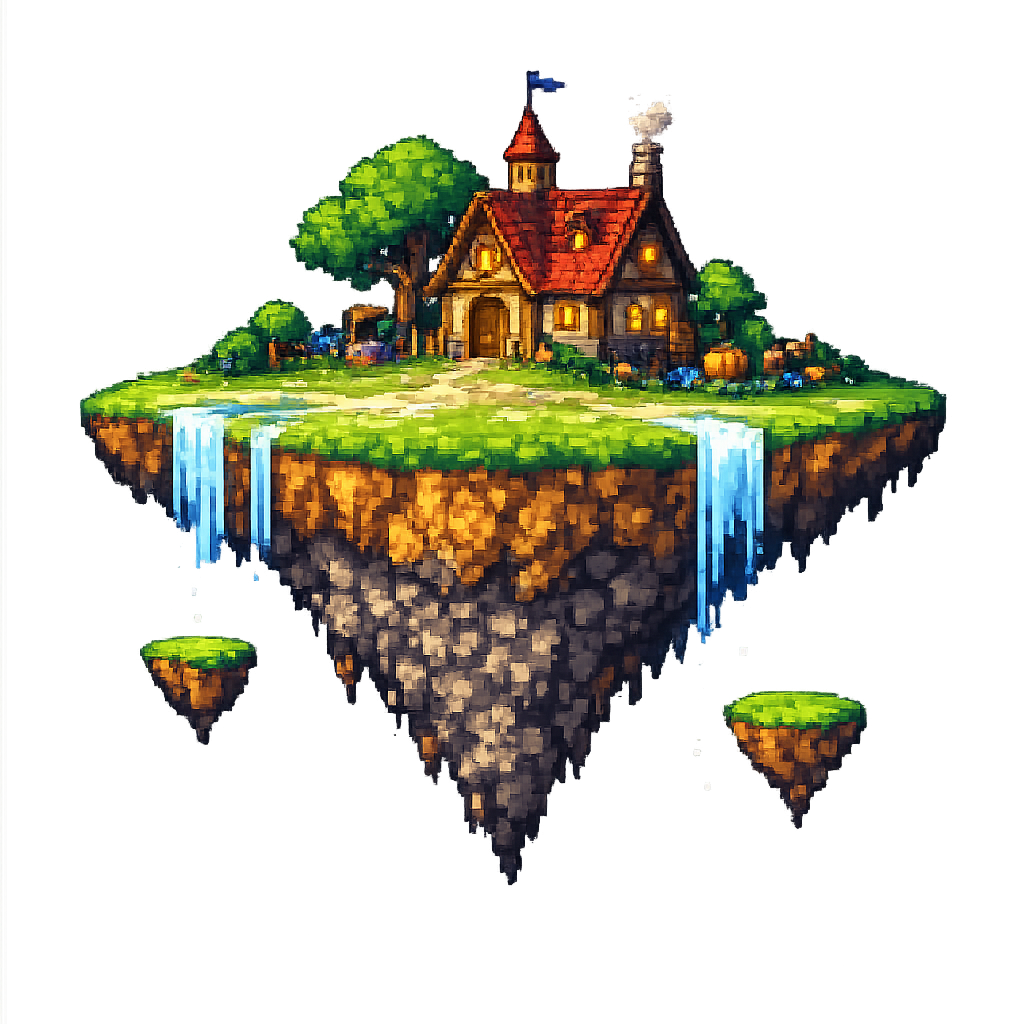
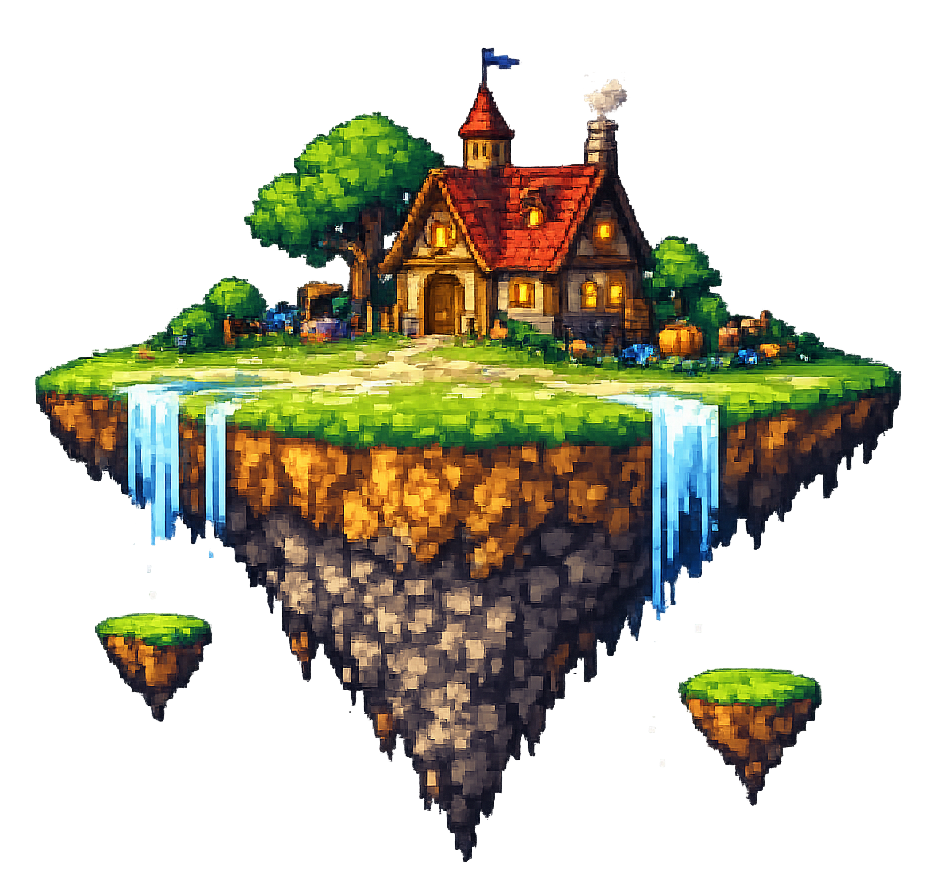
Remove parallax and adjust island visuals
Delete parallax behavior (remove script.js) and update island asset. Tweak CSS: raise island position from bottom 6% to 20%, reduce island max/min sizing (clamp changed to 200px/30vw/400px), and soften drop-shadow (smaller blur/offset). Also removed body transform-origin/will-change related to the parallax. These changes simplify visuals and improve layout/responsiveness.

diff --git a/style.css b/style.css
@@ -30,15 +30,12 @@ body {
   height: 100%;
   object-fit: cover;
   object-position: center top;
-  /* leve scale para dar profundidade durante o parallax */
-  transform-origin: center top;
-  will-change: transform;
 }
 
 /* ── Ilha flutuante ── */
 .island-wrapper {
   position: absolute;
-  bottom: 6%;
+  bottom: 20%;
   left: 50%;
   transform: translateX(-50%);
   display: flex;
@@ -50,9 +47,9 @@ body {
 
 .island {
   display: block;
-  width: clamp(280px, 38vw, 640px);
+  width: clamp(200px, 30vw, 400px);
   height: auto;
-  filter: drop-shadow(0 20px 40px rgba(0, 0, 0, 0.55));
+  filter: drop-shadow(0 12px 24px rgba(0, 0, 0, 0.55));
 }
 
 /* Sombra elíptica sob a ilha */
